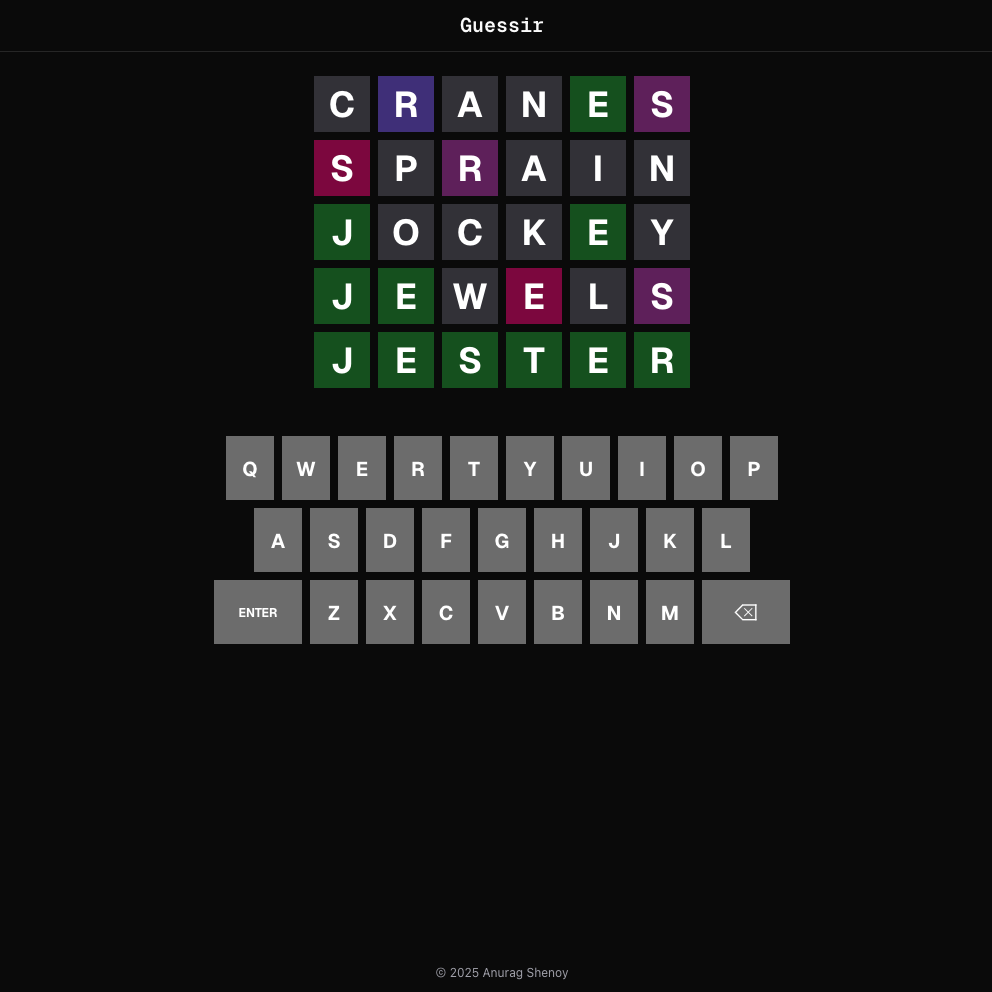
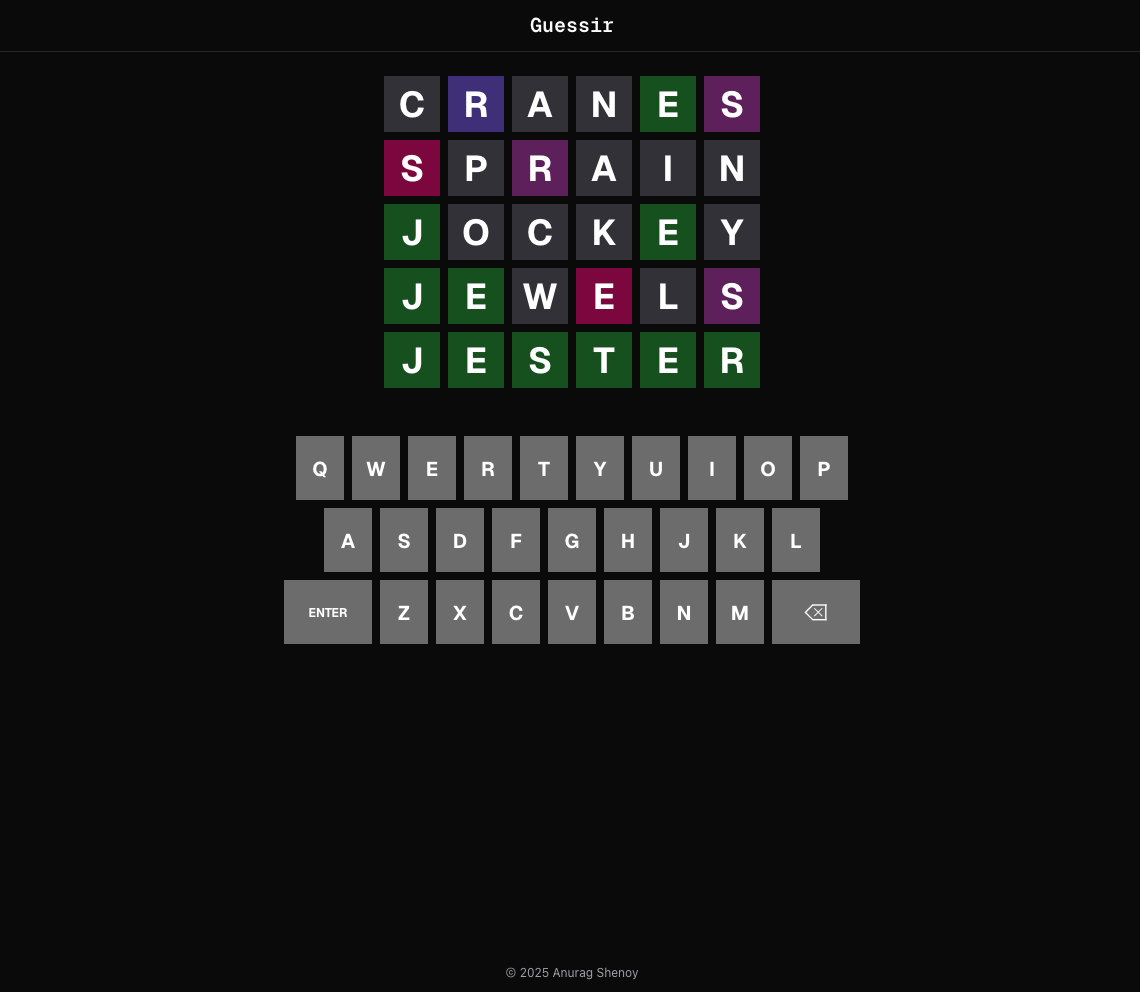
chore: replaced showcase pngs with webp

diff --git a/components/Showcase.tsx b/components/Showcase.tsx
@@ -46,7 +46,7 @@ const showcaseItems: ShowcaseItem[] = [
       'Demonstrates how AI agents can interact to refine complex ideas.',
       'Serves as a unique learning tool where users can observe AI-driven debates on cutting-edge research.',
     ],
-    imgSrc: '/static/images/debate-ai/debate-ai.png',
+    imgSrc: '/static/images/debate-ai/debate-ai.webp',
     imgAlt:
       'Demonstration screenshot of Debate AI project, with two AI agents debating the topic "Should transformer model be used as the primary architecture for all NLP models?".',
     githubURL: { url: 'https://github.com/shenoy-anurag/DebateAI', text: 'Debate AI' },
@@ -61,7 +61,7 @@ const showcaseItems: ShowcaseItem[] = [
       'Uses color gradients to indicate how close each guessed letter is to its correct position.',
       'Offers a fresh alternative to standard Wordle-style puzzles.',
     ],
-    imgSrc: '/static/images/guessir/guessir-jester2.png',
+    imgSrc: '/static/images/guessir/guessir-jester2.webp',
     imgAlt:
       'Screenshot of Guessir, the word guessing game being played with the player successfully guessing the correct answer of "Jester"',
   },
